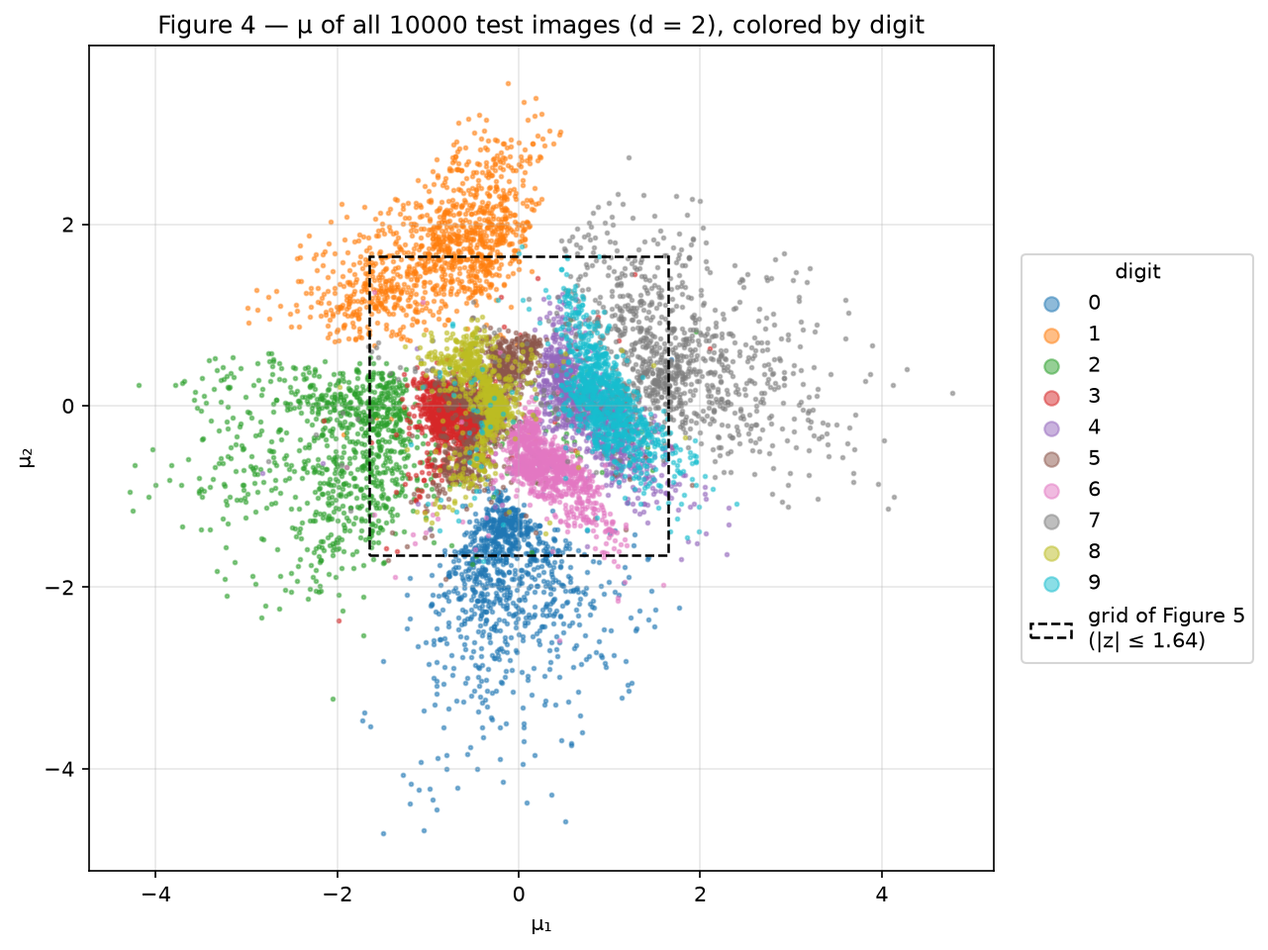
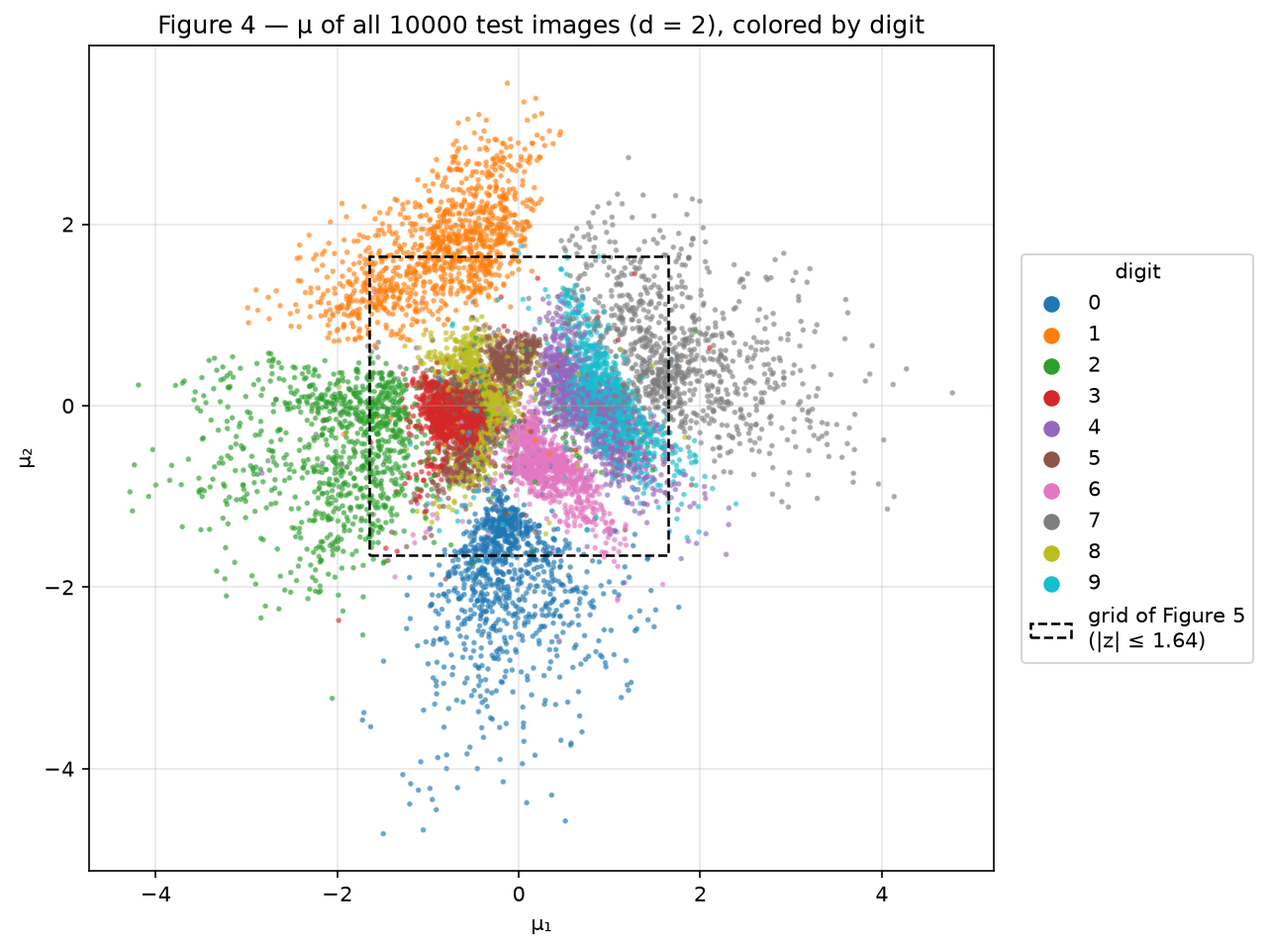
VAE code: BCE gradient finite at exact saturation (same results), digits around the Figure 3 codes, density of the latent path against the test means, Figure 4 in random draw order

diff --git a/docs/exercises/vae/code/exercise2.py b/docs/exercises/vae/code/exercise2.py
@@ -13,7 +13,7 @@ import torch
 from matplotlib.patches import Rectangle
 from scipy.stats import norm
 
-from common import (BATCH_SIZE, BETA, EPOCHS, LR, SEED, TEST_SEED, VAL_SEED, grey_fraction, save, show_grid,
+from common import (BATCH_SIZE, BETA, EPOCHS, LR, SEED, TEST_SEED, VAL_SEED, neighbour_votes, save, show_grid,
                     tile_ticks)
 from exercise1 import log_aggregate_posterior
 from vae import VAE, evaluate, reconstruction_term, train
@@ -25,17 +25,13 @@ INTERP = (0, 1)                             # Figure 6 interpolates the first tw
 N_STEPS = 10                                # 10 images per row, t from 0 to 1
 K = 10                                      # neighbours in the k-nearest-neighbour vote
 DIGIT_COLORS = plt.get_cmap("tab10").colors
+DRAW_ORDER_SEED = 0                         # Figure 4 draws the points in a fixed random order
 
 
-def knn_predict(references, labels, queries, k=K, chunk=1000):
-    """Majority digit among the k nearest references (Euclidean distance) of each query; ties go to the smaller
-    digit. Used only as a measuring tool: how mixed the digits are around a point."""
-    predictions = []
-    for start in range(0, len(queries), chunk):
-        nearest = torch.cdist(queries[start:start + chunk], references).topk(k, largest=False).indices
-        votes = torch.nn.functional.one_hot(labels[nearest], 10).sum(dim=1)
-        predictions.append(votes.argmax(dim=1))  # argmax returns the first maximum: the smaller digit
-    return torch.cat(predictions)
+def knn_predict(references, labels, queries, k=K):
+    """Majority digit among the k nearest references of each query (ties go to the smaller digit, because
+    argmax returns the first maximum). A measuring tool only."""
+    return neighbour_votes(references, labels, queries, k).argmax(dim=1)
 
 
 def ink_area(X):
@@ -74,8 +70,11 @@ def run(data, model16, ex1):
         mu_tr, _ = model.encode(X_tr)
     edge = float(norm.ppf(Q[-1]))  # the grid of Figure 5 spans [-edge, edge] on both axes
     fig, ax = plt.subplots(figsize=(8.2, 7))
+    # one scatter in a random order, so that no digit is drawn on top of all the others
+    order = torch.randperm(len(X_te), generator=torch.Generator().manual_seed(DRAW_ORDER_SEED))
+    ax.scatter(*mu_te[order].T, s=3, alpha=0.5, c=np.array(DIGIT_COLORS)[y_te[order].numpy()], rasterized=True)
     for k in range(10):
-        ax.scatter(*mu_te[y_te == k].T, s=3, alpha=0.5, color=DIGIT_COLORS[k], label=str(k), rasterized=True)
+        ax.scatter([], [], s=3, color=DIGIT_COLORS[k], label=str(k))  # legend entries
     ax.add_patch(Rectangle((-edge, -edge), 2 * edge, 2 * edge, fill=False, ls="--", lw=1.2, color="black",
                            label=f"grid of Figure 5\n(|z| ≤ {edge:.2f})"))
     ax.set(title=f"Figure 4 — μ of all {len(X_te)} test images (d = 2), colored by digit",
@@ -91,16 +90,22 @@ def run(data, model16, ex1):
         decoded = model.decode(Z)
     fig, ax = plt.subplots(figsize=(8.6, 9))
     show_grid(ax, decoded, N_GRID, N_GRID, separators=False)
-    tile_ticks(ax, "x", [f"{z:.2f}" for z in z_values])
-    tile_ticks(ax, "y", [f"{z:.2f}" for z in z_values[::-1]])
+    labels = [f"{z:.2f}" for z in np.round(z_values, 2) + 0.0]  # + 0.0 turns the -0.0 of the centre into 0.0
+    tile_ticks(ax, "x", labels)
+    tile_ticks(ax, "y", labels[::-1])
     ax.tick_params(axis="x", labelrotation=90)
     ax.set(title=f"Figure 5 — the decoded plane (d = 2): decoder(z) on a {N_GRID} × {N_GRID} grid\n"
                  f"z = Φ⁻¹(q), q = {Q[0]:.2f}, …, {Q[-1]:.2f} on each axis",
            xlabel="z₁ = Φ⁻¹(q₁)", ylabel="z₂ = Φ⁻¹(q₂)")
     save(fig, "fig5.png")
     cell_mass = float((Q[1] - Q[0]) ** 2)
-    print(f"grid z values: {np.round(z_values, 3).tolist()}; prior mass between neighbouring grid lines on both "
-          f"axes: ({Q[1] - Q[0]:.4f})^2 = {cell_mass:.6f}")
+    # for comparison, a linear grid over the same range: prior mass of the tile around its centre and corner
+    half = edge / (N_GRID - 1)
+    linear_mass = {"centre": float((norm.cdf(half) - norm.cdf(-half)) ** 2),
+                   "corner": float((norm.cdf(edge + half) - norm.cdf(edge - half)) ** 2)}
+    print(f"grid z values: {np.round(z_values, 3).tolist()}; prior mass of each tile (a slice of width "
+          f"{Q[1] - Q[0]:.4f} in q on each axis): {cell_mass:.6f}; on a linear grid over the same range: "
+          f"{linear_mass['centre']:.5f} at the centre, {linear_mass['corner']:.5f} at a corner")
 
     # --- D: Figure 6, interpolation in pixel space and in the latent space of the d = 16 model ---
     a, b = INTERP
@@ -138,6 +143,7 @@ def run(data, model16, ex1):
         mu16_te, _ = model16.encode(X_te)
         path = (1 - t) * mu16[0] + t * mu16[1]  # the codes decoded in the bottom row of Figure 6
         logq_path = log_aggregate_posterior(path, mu16_tr, logvar16_tr).tolist()
+        logq_mu16_te = log_aggregate_posterior(mu16_te, mu16_tr, logvar16_tr)  # the same kind of point: a mean
         recon2 = model.decode(mu_te)
         recon16 = model16.decode(mu16_te)
     acc2 = float((pred == y_te).float().mean())
@@ -147,8 +153,7 @@ def run(data, model16, ex1):
     grid_counts = torch.bincount(grid_labels.flatten(), minlength=10).tolist()
     pixel_digits = knn_predict(X_tr, y_tr, pixel_row).tolist()
     latent_digits = knn_predict(X_tr, y_tr, latent_row).tolist()
-    grey_pixel_row = [grey_fraction(img) for img in pixel_row]
-    grey_latent_row = [grey_fraction(img) for img in latent_row]
+    path_percentile = float((logq_mu16_te < min(logq_path)).float().mean())
     ink = {"x_a": ink_area(X_te[[a]])[0], "x_b": ink_area(X_te[[b]])[0],
            "union": int(((X_te[a] > 0.1) | (X_te[b] > 0.1)).sum()),
            "test_mean": float(np.mean(ink_area(X_te))), "pixel_row": ink_area(pixel_row),
@@ -158,8 +163,8 @@ def run(data, model16, ex1):
         "d": D, "history": history, "test_rec": test_rec, "test_kl": test_kl, "test_neg_elbo": test_rec + test_kl,
         "test_rec_d16": test_rec16, "test_kl_d16": test_kl16,
         "test_rec_from_mu": reconstruction_term(recon2, X_te).item(),
-        "kl_bits_d2": test_kl / math.log(2), "kl_bits_d16": test_kl16 / math.log(2),
-        "grid_z": z_values.tolist(), "grid_edge": edge, "cell_mass": cell_mass,
+        "kl_bits_d2": test_kl / math.log(2), "digit_bits": math.log2(10),
+        "grid_z": z_values.tolist(), "grid_edge": edge, "cell_mass": cell_mass, "linear_grid_mass": linear_mass,
         "interp_indices": [a, b], "interp_digits": [int(y_te[a]), int(y_te[b])], "t": t.flatten().tolist(),
         "knn_k": K, "knn_acc_d2": acc2, "knn_acc_d16": acc16,
         "top_pairs": [{"pair": [p, q], "count": c} for c, p, q in pairs[:6]],
@@ -168,8 +173,8 @@ def run(data, model16, ex1):
         "boundary_cells": [[r + 1, c + 1] for r, c in boundary],  # 1-based (row from the top, column from the left)
         "within_digit_variance": spread,
         "pixel_row_digits": pixel_digits, "latent_row_digits": latent_digits,
-        "grey_pixel_row": grey_pixel_row, "grey_latent_row": grey_latent_row, "ink_area": ink,
-        "logq_latent_path": logq_path, "logq_latent_path_min": min(logq_path),
+        "ink_area": ink, "logq_latent_path": logq_path, "logq_latent_path_min": min(logq_path),
+        "logq_test_mu_median": float(logq_mu16_te.median()), "latent_path_min_percentile": path_percentile,
     }
     print(f"\n2E — overlap: {K}-NN on the training codes, test codes misassigned per pair (both directions): "
           + ", ".join(f"{p}-{q}: {c}" for c, p, q in pairs[:6]))
@@ -180,17 +185,17 @@ def run(data, model16, ex1):
         print("       " + " ".join(str(v) for v in row))
     print(f"     cells per digit: {grid_counts}; {i}/{j} boundary cells (row, column), 1-based: "
           f"{results['boundary_cells']}")
-    print(f"2E — d = 2 cost: KL {test_kl:.2f} nats = {results['kl_bits_d2']:.1f} bits vs {test_kl16:.2f} nats = "
-          f"{results['kl_bits_d16']:.1f} bits; {K}-NN digit accuracy from mu: d = 2 {acc2:.2%}, d = 16 {acc16:.2%}")
+    print(f"2E — d = 2 cost: the KL bounds the information in the code: {test_kl:.2f} nats = "
+          f"{results['kl_bits_d2']:.1f} bits (the digit alone: log2 10 = {math.log2(10):.1f} bits); "
+          f"{K}-NN digit accuracy from mu: d = 2 {acc2:.2%}, d = 16 {acc16:.2%}")
     print(f"     within-digit spread (summed pixel variance): test images {spread['images']:.2f}, reconstructions "
           f"d = 2 {spread['d2']:.2f} ({spread['d2'] / spread['images']:.0%}), d = 16 {spread['d16']:.2f} "
           f"({spread['d16'] / spread['images']:.0%})")
     print(f"2E — Figure 6: digit of the 10 nearest training images, pixel row {pixel_digits}, latent row "
           f"{latent_digits}")
-    print(f"     grey pixels per image, pixel row {[f'{g:.1%}' for g in grey_pixel_row]}")
-    print(f"     grey pixels per image, latent row {[f'{g:.1%}' for g in grey_latent_row]}")
     print(f"     ink area (pixels > 0.1): x_a {ink['x_a']}, x_b {ink['x_b']}, union {ink['union']}, test mean "
           f"{ink['test_mean']:.1f}; pixel row {ink['pixel_row']}; latent row {ink['latent_row']}")
     print(f"     log q(z) along the latent path (d = 16): {[round(v, 2) for v in logq_path]}; lowest "
-          f"{min(logq_path):.2f} vs 1st percentile of the test codes {ex1['logq_test_p01']:.2f}")
+          f"{min(logq_path):.2f}, above the log q of {path_percentile:.2%} of the test images' mu (median "
+          f"{results['logq_test_mu_median']:.2f})")
     return results

diff --git a/docs/exercises/vae/code/check_report.py b/docs/exercises/vae/code/check_report.py
@@ -47,8 +47,15 @@ centre = ex2["overlap_centre"]
 switch_rows = [r for r in range(len(labels)) if labels[r][10] == i and labels[r][11] == j]  # columns 11 -> 12
 contiguous = switch_rows == list(range(switch_rows[0], switch_rows[-1] + 1))
 boundary = ex2["boundary_cells"]
-ink, path_grey, pixel_grey = ex2["ink_area"], ex2["grey_latent_row"], ex2["grey_pixel_row"]
-same_ends = f"{100 * pixel_grey[0]:.1f}" == f"{100 * pixel_grey[-1]:.1f}"  # the report gives one value for both
+ink = ex2["ink_area"]
+mass = ex2["linear_grid_mass"]
+
+
+def cells(name, listed, computed):
+    """One entry per cell (row, column) of Figure 3 that the report names; a cell missing from the computed
+    list (the code's own selection) is reported as a mismatch."""
+    return {f"{name} {r},{c}": f"({r}, {c})" if [r, c] in computed else f"({r}, {c}) NOT IN THE CODE'S LIST"
+            for r, c in listed}
 spread = ex2["within_digit_variance"]
 kl_dims = ex1["kl_per_dim"]
 pairs = ex2["top_pairs"]
@@ -62,6 +69,9 @@ expected = {
     "BCE gradient check": f"gradient agrees to {sci(checks['bce_grad_rel_error_regular'])}",
     "floored pixels": f"on {100 * checks['n_floored'] / checks['n_pixels']:.2f}% of the pixels, all but "
                       f"{checks['n_floored_ink']} of them background pixels",
+    "saturation": "give the same value and the same, finite gradient at the logits"
+                  if checks["bce_saturated_grad_finite"] and checks["bce_saturated_grad_error"] == 0
+                  and checks["bce_saturated"][0] == checks["bce_saturated"][1] else "SATURATION MISMATCH",
     "KL Monte Carlo": f"within {checks['kl_mc_worst_stderr']:.2f} standard errors "
                       f"({100 * checks['kl_mc_worst_rel']:.2f}%)",
     "reparameterization exact": "exactly" if checks["reparam_grad_error"] == 0 else "MISMATCH",
@@ -77,18 +87,25 @@ expected = {
     "BCE floor": f"{f2(ex1['bce_floor_test'])} nats per test image",
     "above the floor": f"{f2(ex1['test_rec'])} nats are {f2(ex1['test_rec'] - ex1['bce_floor_test'])} above",
     "epoch 1 train vs val": f"({f2(h1['train_rec'][0])} against {f2(h1['val_rec'][1])})",
-    "final gap": f"{f2(h1['val_rec'][-1] - h1['train_rec'][-1])} nats above the training average",
+    "end of training": f"the reconstruction is {f2(ex1['train_rec_end'])} nats on the training set and "
+                       f"{f2(h1['val_rec'][-1])} on the validation set, a gap of "
+                       f"{f2(h1['val_rec'][-1] - ex1['train_rec_end'])} nats, and the KL on the training set is "
+                       f"{f2(ex1['train_kl_end'])} nats (the {f2(h1['train_kl'][-1])} of the table",
     "Figure 2 indices": "test indices " + ", ".join(str(k) for k in ex1["first_test_index_per_digit"][:-1])
                         + f" and {ex1['first_test_index_per_digit'][-1]}",
     "untrained KL in 1E": f"(KL {ex1['val_kl_untrained']:.4f} nats)",
-    "code-free decoder": f"still costs {f2(ex1['rec_no_code'])} nats",
-    "KL rise": f"rose by {f2(ex1['val_kl_last'] - ex1['val_kl_first'])} nats ({f2(ex1['val_kl_first'])} to "
+    "code-free decoder": f"costs {f2(ex1['rec_no_code'])} nats of reconstruction",
+    "trained total": f"pays {f2(ex1['test_kl'])} nats of KL on the test set and reconstructs at {f2(ex1['test_rec'])}, "
+                     f"a total of {f2(ex1['test_neg_elbo'])}, against at least {f2(ex1['rec_no_code'])}",
+    "epoch 1 jump": f"KL jumps from {ex1['val_kl_untrained']:.4f} to {f2(ex1['val_kl_first'])} nats while the "
+                    f"reconstruction falls from {f2(ex1['val_rec_untrained'])} to {f2(ex1['val_rec_first'])}",
+    "KL rise": f"rises another {f2(ex1['val_kl_last'] - ex1['val_kl_first'])} nats ({f2(ex1['val_kl_first'])} to "
                f"{f2(ex1['val_kl_last'])})",
-    "reconstruction fall": f"fell by {f2(ex1['val_rec_first'] - ex1['val_rec_last'])} ({f2(ex1['val_rec_first'])} "
+    "reconstruction fall": f"falls {f2(ex1['val_rec_first'] - ex1['val_rec_last'])} more ({f2(ex1['val_rec_first'])} "
                            f"to {f2(ex1['val_rec_last'])})",
-    "total fall": f"total fell by "
+    "total fall": f"total falls by "
                   f"{f2(ex1['val_rec_first'] + ex1['val_kl_first'] - ex1['val_rec_last'] - ex1['val_kl_last'])}",
-    "active dimensions": f"{ex1['n_active']} of the 16 dimensions carry between {ex1['min_kl_active']:.3f} and "
+    "active dimensions": f"{ex1['n_active']} of the 16 dimensions cost between {ex1['min_kl_active']:.3f} and "
                          f"{max(kl_dims):.3f} nats",
     "active sigma": f"mean σ between {ex1['sigma_active_range'][0]:.2f} and {ex1['sigma_active_range'][1]:.2f}",
     "inactive dimensions": f"the other {16 - ex1['n_active']} stay on the prior, with at most "
@@ -103,6 +120,10 @@ expected = {
                          f"{f2(ex1['logq_test_median'] - ex1['logq_prior_median'])} nats lower, and "
                          f"{ex1['prior_codes_below_test_p01']} of the 64",
     "expected count": f"1% of 64 would be {0.01 * 64:.2f}",
+    **cells("low-density cell", [[3, 6], [7, 3], [7, 4], [4, 1], [4, 8]], ex1["prior_cells_below_test_p01"]),
+    "mixed codes": f"For {ex1['mixed_prior_count']} of the 64 codes, no digit has a majority among the 10 nearest "
+                   f"training codes, against {100 * ex1['mixed_test_fraction']:.2f}% of the test codes",
+    **cells("mixed cell", [[1, 5], [2, 7], [3, 2], [5, 5], [8, 4]], ex1["mixed_prior_cells"]),
     "grey pixels": f"{100 * ex1['grey_test']:.2f}% in the test images, {100 * ex1['grey_recon_test']:.2f}% in their "
                    f"reconstructions from μ and {100 * ex1['grey_prior_samples']:.2f}% in the samples of Figure 3",
     "why mu": f"{f2(ex1['test_rec_from_mu'])} nats on the test set against {f2(ex1['test_rec'])} with a sampled z",
@@ -117,6 +138,9 @@ expected = {
     "grid edge": f"|z| ≤ {ex2['grid_edge']:.2f}",
     "grid range": f"from {f2(z[0])} to {f2(z[-1])}",
     "cell mass": f"{math.sqrt(ex2['cell_mass']):.4f}² = {ex2['cell_mass']:.4f}",  # the step in q, squared
+    "q slice": f"a slice of width {math.sqrt(ex2['cell_mass']):.4f} in q on each axis",
+    "linear grid": f"centre tile a mass of {mass['centre']:.5f} and a corner tile {mass['corner']:.5f}, "
+                   f"{mass['centre'] / mass['corner']:.1f} times less",
     "interpolation indices": f"test index {a} (a {da}) and test index {b} (a {db})",
     "overlap pairs": "; ".join(f"{p['pair'][0]} and {p['pair'][1]}, {p['count']}" for p in pairs[:5]),
     "largest overlap": f"between **{i} and {j}**",
@@ -126,8 +150,8 @@ expected = {
     "switch rows": (f"rows {switch_rows[0] + 1} to {switch_rows[-1] + 1} the switch happens between columns 11 and "
                     f"12, from z₁ = {f2(z[10])} to {f2(z[11])}") if contiguous else "rows not contiguous",
     "mixed codes cell": f"around row {len(z) + 1 - nearest(z, centre[1])}, column {nearest(z, centre[0])}",
-    "bits": f"{f2(ex2['test_kl'])} nats, that is {ex2['kl_bits_d2']:.1f} bits, against {ex2['kl_bits_d16']:.1f} bits",
-    "digit bits": f"log₂ 10 = {math.log2(10):.1f} bits",
+    "bits": f"at most {f2(ex2['test_kl'])} nats per image, that is {ex2['kl_bits_d2']:.1f} bits, and naming the digit "
+            f"alone takes log₂ 10 = {ex2['digit_bits']:.1f} bits",
     "spread": f"only {spread['d2'] / spread['images']:.0%} as much as the images themselves (summed pixel variance "
               f"{f2(spread['d2'])} against {f2(spread['images'])}), against {spread['d16'] / spread['images']:.0%} "
               f"({f2(spread['d16'])})",
@@ -137,14 +161,12 @@ expected = {
     "pixel row ink": f"{min(ink['pixel_row'][2:6])} to {max(ink['pixel_row'][2:6])} ink pixels",
     "union and endpoints": f"close to the {ink['union']} that the {da} and the {db} cover together, while the {da} "
                            f"has {ink['x_a']}, the {db} has {ink['x_b']} and a test image has {ink['test_mean']:.1f}",
-    "pixel row grey": (f"{100 * min(pixel_grey[2:5]):.1f}% to {100 * max(pixel_grey[2:5]):.1f}% at t = 0.22 to "
-                       f"0.44, against {100 * pixel_grey[0]:.1f}% at both ends") if same_ends else "ends differ",
-    "latent path density": f"lowest log q(z), {f2(ex2['logq_latent_path_min'])}, is far above the 1st percentile of "
-                           f"the test codes, {f2(ex1['logq_test_p01'])}",
+    "latent path density": f"at log q(z) = {f2(ex2['logq_latent_path_min'])}, is denser than the μ of "
+                           f"{100 * ex2['latent_path_min_percentile']:.2f}% of the test images (their median is "
+                           f"{f2(ex2['logq_test_mu_median'])})",
     "latent row 3": "at t = 0.56 the majority digit of the 10 nearest training images is a 3"
                     if ex2["latent_row_digits"][5] == 3 and f"{ex2['t'][5]:.2f}" == "0.56" else "NOT A 3",
     "latent row ink": f"between {min(ink['latent_row'])} and {max(ink['latent_row'])} pixels",
-    "latent row grey": f"{100 * min(path_grey):.1f}% to {100 * max(path_grey):.1f}% grey pixels",
 }
 for row in results["summary_rows"]:
     expected[f"summary row {row['#']}"] = f"| {row['#']} | {row['quantity']} | {row['value']} |"

diff --git a/docs/exercises/vae/code/exercise1.py b/docs/exercises/vae/code/exercise1.py
@@ -10,8 +10,8 @@ import matplotlib.pyplot as plt
 import numpy as np
 import torch
 
-from common import (BATCH_SIZE, BETA, EPOCHS, LR, SEED, TEST_SEED, VAL_SEED, grey_fraction, save, show_grid,
-                    tile_ticks)
+from common import (BATCH_SIZE, BETA, EPOCHS, LR, SEED, TEST_SEED, TRAIN_EVAL_SEED, VAL_SEED, grey_fraction,
+                    neighbour_votes, save, show_grid, tile_ticks)
 from vae import VAE, evaluate, kl_term, reconstruction_term, sample, train
 
 D = 16
@@ -43,7 +43,7 @@ def pixel_entropy(X):
 
 def run(data):
     print("\n" + "=" * 72 + "\nEXERCISE 1 — a VAE on MNIST (d = 16)\n" + "=" * 72)
-    X_tr, _ = data["train"]
+    X_tr, y_tr = data["train"]
     X_va, _ = data["val"]
     X_te, y_te = data["test"]
 
@@ -65,6 +65,9 @@ def run(data):
         print(f"{e + 1:5d} | {history['train_rec'][e]:9.2f} {history['train_kl'][e]:9.2f} | "
               f"{history['val_rec'][e + 1]:7.2f} {history['val_kl'][e + 1]:7.2f} "
               f"{history['val_rec'][e + 1] + history['val_kl'][e + 1]:9.2f}")
+    train_rec_end, _ = evaluate(model, X_tr, TRAIN_EVAL_SEED)  # the training set, measured like the validation set
+    print(f"after epoch {EPOCHS}, both sets measured the same way: training reconstruction {train_rec_end:.2f}, "
+          f"validation reconstruction {history['val_rec'][-1]:.2f}")
     test_rec, test_kl = evaluate(model, X_te, TEST_SEED)
     print(f"TEST (d = {D}): reconstruction {test_rec:.2f}, KL {test_kl:.2f}, negative ELBO {test_rec + test_kl:.2f} "
           f"nats per image")
@@ -132,12 +135,18 @@ def run(data):
         assert torch.equal(model.decode(z_prior), samples), "the codes must be the ones of Figure 3"
         logq_te = log_aggregate_posterior(z_te, mu_tr, logvar_tr)
         logq_prior = log_aggregate_posterior(z_prior, mu_tr, logvar_tr)
+        # how mixed the digits are around each code: share of the most common digit among its 10 nearest
+        # training codes (mu); at most 0.5 means that no digit has a majority there
+        share_te = neighbour_votes(mu_tr, y_tr, z_te).max(dim=1).values / 10
+        share_prior = neighbour_votes(mu_tr, y_tr, z_prior).max(dim=1).values / 10
 
     val_kl, val_rec = history["val_kl"], history["val_rec"]
     active = kl_per_dim > 0.1
     logq_p01 = float(torch.quantile(logq_te, 0.01))
     low = torch.nonzero(logq_prior < logq_p01).flatten().tolist()
     low_cells = [[k // GRID + 1, k % GRID + 1] for k in low]  # (row, column) in Figure 3, 1-based
+    mixed = torch.nonzero(share_prior <= 0.5).flatten().tolist()
+    mixed_cells = [[k // GRID + 1, k % GRID + 1] for k in mixed]
     floor = pixel_entropy(X_te)
     info_bound = kl_train - math.log(len(X_tr))
     results = {
@@ -157,6 +166,8 @@ def run(data):
         "logq_test_median": float(logq_te.median()), "logq_test_p01": logq_p01,
         "logq_prior_median": float(logq_prior.median()), "prior_codes_below_test_p01": len(low),
         "prior_cells_below_test_p01": low_cells,
+        "mixed_test_fraction": float((share_te <= 0.5).float().mean()), "mixed_prior_count": len(mixed),
+        "mixed_prior_cells": mixed_cells, "train_rec_end": train_rec_end,
         "grey_test": grey_fraction(X_te), "grey_recon_test": grey_fraction(recon_te),
         "grey_prior_samples": grey_fraction(samples),
         "test_rec_from_mu": rec_from_mu,
@@ -176,6 +187,8 @@ def run(data):
     print(f"     log q(z) of the test codes: median {results['logq_test_median']:.2f}, 1st percentile {logq_p01:.2f}; "
           f"of the {GRID * GRID} codes of Figure 3: median {results['logq_prior_median']:.2f}, {len(low)} below that "
           f"1st percentile, at (row, column) {low_cells}")
+    print(f"     no digit with a majority among the 10 nearest training codes: {results['mixed_test_fraction']:.2%} of "
+          f"the test codes, {len(mixed)} of the {GRID * GRID} codes of Figure 3, at (row, column) {mixed_cells}")
     print(f"1E — Figure 3, reason 2: grey pixels (0.1 < x < 0.9): test images {results['grey_test']:.2%}, "
           f"reconstructions from mu {results['grey_recon_test']:.2%}, Figure 3 samples "
           f"{results['grey_prior_samples']:.2%}; BCE floor of the test images (sum of pixel entropies) {floor:.2f}")

diff --git a/docs/exercises/vae/code/loss_check.py b/docs/exercises/vae/code/loss_check.py
@@ -56,10 +56,17 @@ def run(model, X_val):
         n_pixels += x.numel()
         n_floored += int((~regular).sum())
         n_floored_ink += int((~regular & (x > 0)).sum())
-    saturated = torch.zeros_like(x)  # x and x_hat: the last chunk of the loop
-    saturated[:, ::2] = 1.0  # outputs exactly 0 and 1: both versions floor each log at -100
-    edge_ours = reconstruction_term(saturated, x).item()
-    edge_ref = F.binary_cross_entropy(saturated, x, reduction="sum").item() / len(x)
+    # Saturation: logits of +-200 make the float32 sigmoid return exactly 1 and 0 (x is the last chunk of the
+    # loop). Both versions floor each log at -100; the gradient that reaches the logits must be finite and equal.
+    logits_ours = torch.where(torch.arange(N_PIXELS) % 2 == 0, 200.0, -200.0).expand_as(x).clone().requires_grad_()
+    logits_ref = logits_ours.detach().clone().requires_grad_()
+    edge_ours = reconstruction_term(torch.sigmoid(logits_ours), x)
+    edge_ref = F.binary_cross_entropy(torch.sigmoid(logits_ref), x, reduction="sum") / len(x)
+    edge_ours.backward()
+    edge_ref.backward()
+    edge_grad_finite = bool(torch.isfinite(logits_ours.grad).all())
+    edge_grad_error = (logits_ours.grad - logits_ref.grad).abs().max().item()
+    edge_ours, edge_ref = edge_ours.item(), edge_ref.item()
     ratio = (F.binary_cross_entropy(x_hat, x, reduction="sum") / len(x)
              / F.binary_cross_entropy(x_hat, x, reduction="mean")).item()
     print(f"reconstruction term vs F.binary_cross_entropy(sum) / batch, on the {len(X_val)} validation images "
@@ -70,8 +77,9 @@ def run(model, X_val):
           f"(relative difference {builtin_error:.1e}),")
     print(f"  so it is smaller than the exact derivative on the {n_floored} of {n_pixels} pixels "
           f"({n_floored / n_pixels:.2%}) below that floor, {n_floored_ink} of them with ink (x > 0)")
-    print(f"  outputs saturated at exactly 0 and 1: {edge_ours:.4f} vs {edge_ref:.4f}; "
-          f"sum / batch over reduction='mean': {ratio:.2f} (= {N_PIXELS} pixels)")
+    print(f"  outputs saturated at exactly 0 and 1: {edge_ours:.4f} vs {edge_ref:.4f}; gradient at the logits "
+          f"finite: {edge_grad_finite}, largest difference {edge_grad_error:.1e}")
+    print(f"  sum / batch over reduction='mean': {ratio:.2f} (= {N_PIXELS} pixels)")
 
     # --- 2. closed-form KL vs Monte Carlo --------------------------------------------------------
     with torch.no_grad():
@@ -101,5 +109,6 @@ def run(model, X_val):
     return {"bce_value_rel_error": value_error, "bce_grad_rel_error_regular": grad_error,
             "builtin_grad_formula_error": builtin_error, "n_pixels": n_pixels, "n_floored": n_floored,
             "n_floored_ink": n_floored_ink,
-            "bce_saturated": [edge_ours, edge_ref], "sum_over_mean_ratio": ratio,
+            "bce_saturated": [edge_ours, edge_ref], "bce_saturated_grad_finite": edge_grad_finite,
+            "bce_saturated_grad_error": edge_grad_error, "sum_over_mean_ratio": ratio,
             "kl_mc_worst_stderr": worst_z, "kl_mc_worst_rel": worst_rel, "reparam_grad_error": reparam_error}

diff --git a/docs/exercises/vae/code/vae.py b/docs/exercises/vae/code/vae.py
@@ -53,10 +53,16 @@ def reparameterize(mu, logvar, generator=None):
 
 def reconstruction_term(x_hat, x):
     """-log p(x|z) for a Bernoulli decoder: -sum_j [x_j log x_hat_j + (1 - x_j) log(1 - x_hat_j)], the binary
-    cross-entropy summed over the 784 pixels and averaged over the images. Each log is floored at -100,
-    exactly as F.binary_cross_entropy does, so a saturated sigmoid output would cost 100 nats, not infinity."""
-    log_p = torch.log(x_hat).clamp(min=LOG_FLOOR)       # log x_hat
-    log_1mp = torch.log1p(-x_hat).clamp(min=LOG_FLOOR)  # log(1 - x_hat)
+    cross-entropy summed over the 784 pixels and averaged over the images.
+
+    Each log is floored at -100, as F.binary_cross_entropy does: a float32 sigmoid returns exactly 0 or 1 for
+    large logits, and that pixel then costs 100 nats instead of infinity. Where the output is exactly 0 (or 1),
+    torch.where puts the floor in place of log x_hat (or log(1 - x_hat)) and feeds the unused log a harmless
+    input, so the gradient there is 0 instead of 0/0 = NaN."""
+    nonzero = x_hat > 0     # log x_hat is finite here
+    below_one = x_hat < 1   # log(1 - x_hat) is finite here
+    log_p = torch.where(nonzero, torch.log(torch.where(nonzero, x_hat, 1.0)), LOG_FLOOR).clamp(min=LOG_FLOOR)
+    log_1mp = torch.where(below_one, torch.log1p(-torch.where(below_one, x_hat, 0.0)), LOG_FLOOR).clamp(min=LOG_FLOOR)
     per_image = -(x * log_p + (1 - x) * log_1mp).sum(dim=1)
     return per_image.mean()
 

diff --git a/docs/exercises/vae/code/common.py b/docs/exercises/vae/code/common.py
@@ -23,6 +23,7 @@ LR = 1e-3
 BETA = 1.0
 VAL_SEED = 1     # generator of the eps used to evaluate the validation set (the same eps every epoch)
 TEST_SEED = 2    # generator of the eps used to evaluate the test set
+TRAIN_EVAL_SEED = 3  # generator of the eps used to evaluate the training set once training is over
 SIDE = 28        # MNIST images are 28 x 28
 
 
@@ -40,6 +41,16 @@ def load_mnist():
         return torch.stack(images).view(len(dataset), -1), torch.tensor(labels)
 
     return {"train": flatten(train), "val": flatten(val), "test": flatten(test)}
+
+
+def neighbour_votes(references, labels, queries, k=10, chunk=1000):
+    """For each query, how many of its k nearest references (Euclidean distance) carry each digit: (n, 10).
+    A measuring tool only: it says how mixed the digits are around a point."""
+    votes = []
+    for start in range(0, len(queries), chunk):
+        nearest = torch.cdist(queries[start:start + chunk], references).topk(k, largest=False).indices
+        votes.append(torch.nn.functional.one_hot(labels[nearest], 10).sum(dim=1))
+    return torch.cat(votes)
 
 
 def grey_fraction(X):
